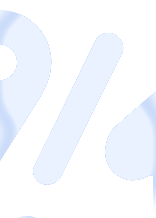
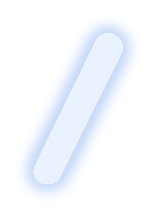
日付の「1」が欠けて見えるのを直す
- 「/」の切り出しに隣の字（組み見本の「9」と「1」）の欠片とグローが入っていた。
  箱ではなく「つながった形」で芯だけを抜き、グローは「:」と同じ作り方で足し直す。
  日にちの「1」に重なって字が欠けて見えていたのはこれが原因。
- 字画像にはグローが焼き込んであるので、重なりは明るいほうを残す
  （PorterDuff.Mode.LIGHTEN）。隣の字の暗いグローが手前の字を欠けさせなくなる。
  日付だけでなく、残り時間の数字（GlyphText）も同じにそろえた。
- 大きさを決める相手を「その月でいちばん大きくなる組み」にした。実際の日付で合わせると
  1 日のように横幅の狭い日だけ字が大きくなり、日ごとに大きさが変わっていた。
  そのぶん枠への収まりに余裕ができるので、対角は 90% → 94% に広げた。

Claude-Session: https://claude.ai/code/session_013hPWkZhM7mxt6LFDg5nXjw

diff --git a/wear/src/main/kotlin/com/kazuya/timtra/wear/complication/DateArt.kt b/wear/src/main/kotlin/com/kazuya/timtra/wear/complication/DateArt.kt
@@ -4,6 +4,8 @@ import android.content.Context
 import android.graphics.Bitmap
 import android.graphics.Canvas
 import android.graphics.Paint
+import android.graphics.PorterDuff
+import android.graphics.PorterDuffXfermode
 import android.graphics.RectF
 import com.kazuya.timtra.data.glyph.Glyph
 import com.kazuya.timtra.data.glyph.GlyphText
@@ -32,16 +34,20 @@ enum class DateStyle {
  *
  * 配置も見本どおり。左に月の数字と「/」、その下に曜日、右に大きな日にち。
  * 組み上がりは横長なので、丸い枠に収まるよう **対角の長さ** を枠の [FILL_DIAGONAL] に合わせる。
+ * ただし合わせる相手は「いちばん横長になる日付」（[WIDEST]）で、日によって字の大きさが変わらないようにする。
  */
 object DateArt {
     /** 既定の一辺（px）。コンプリケーションの枠に合わせて文字盤側が縮める。 */
     const val SIZE_PX = 384
 
     /** 組み上がりの対角を、枠の一辺に対してどこまで広げるか。丸い枠に内接する値。 */
-    private const val FILL_DIAGONAL = 0.90f
+    private const val FILL_DIAGONAL = 0.94f
 
     /** 右下が開いていて、「/」を食い込ませても潰れない数字。 */
     private const val OPEN_TAIL = "479"
+
+    /** 大きさを決める見本の日にち。2 桁のうち幅の広い組み。 */
+    private const val WIDEST_DAY = 28
 
     fun render(
         context: Context,
@@ -50,17 +56,51 @@ object DateArt {
         size: Int = SIZE_PX,
     ): Bitmap {
         val placed = layout(date, style)
-        val box = RectF(placed.first().ink)
-        placed.forEach { box.union(it.ink) }
+        val box = bounds(placed)
         val bitmap = Bitmap.createBitmap(size, size, Bitmap.Config.ARGB_8888)
         val canvas = Canvas(bitmap)
-        val scale = size * FILL_DIAGONAL / hypot(box.width(), box.height())
+        // 大きさは日にちや曜日で変わらないよう、その月でいちばん大きくなる組みで決める
+        val widest = widestBox(date.monthValue, style)
+        val scale = size * FILL_DIAGONAL / hypot(widest.width(), widest.height())
         canvas.translate(size / 2f, size / 2f)
         canvas.scale(scale, scale)
         canvas.translate(-box.centerX(), -box.centerY())
-        val paint = Paint(Paint.FILTER_BITMAP_FLAG)
+        // 字画像にはグローまで焼き込んであるので、重なりは明るいほうを残す（地は黒）
+        val paint =
+            Paint(Paint.FILTER_BITMAP_FLAG).apply {
+                xfermode = PorterDuffXfermode(PorterDuff.Mode.LIGHTEN)
+            }
         placed.forEach { draw(context, canvas, it, paint) }
         return bitmap
+    }
+
+    /** 組み上がり全体の囲み。 */
+    private fun bounds(placed: List<Placed>): RectF {
+        val box = RectF(placed.first().ink)
+        placed.forEach { box.union(it.ink) }
+        return box
+    }
+
+    /**
+     * その月でいちばん大きくなる組みの囲み。幅の広い 2 桁の日にちに、曜日は 7 つぜんぶを重ねて取る。
+     * これを基準に拡大率を決めるので、日にちや曜日が変わっても字の大きさは変わらず、枠からもはみ出さない。
+     */
+    private fun widestBox(
+        month: Int,
+        style: DateStyle,
+    ): RectF {
+        val weeks: List<Glyph?> =
+            when (style) {
+                DateStyle.WEEKDAY_JP -> Glyphs.weekdaysJp
+                DateStyle.WEEKDAY_EN -> Glyphs.weekdaysEn
+                DateStyle.PLAIN -> listOf(null)
+            }
+        val box = RectF()
+        weeks.forEachIndexed { index, week ->
+            val one = bounds(layout(month, WIDEST_DAY, week, style))
+            if (index == 0) box.set(one) else box.union(one)
+        }
+        return box
     }
 
     /**
@@ -70,11 +110,18 @@ object DateArt {
     private fun layout(
         date: LocalDate,
         style: DateStyle,
+    ): List<Placed> = layout(date.monthValue, date.dayOfMonth, weekday(date, style), style)
+
+    private fun layout(
+        month: Int,
+        dayOfMonth: Int,
+        week: Glyph?,
+        style: DateStyle,
     ): List<Placed> {
         val form = if (style == DateStyle.WEEKDAY_EN) Glyphs.en else Glyphs.jp
         val placed = mutableListOf<Placed>()
         // 日にち: 原点から右へ
-        val day = date.dayOfMonth.toString()
+        val day = dayOfMonth.toString()
         var x = 0f
         day.forEach { digit ->
             val glyph = Glyphs.digits[digit - '0']
@@ -92,9 +139,9 @@ object DateArt {
         placed += Placed(slash, RectF(slashLeft, form.slashBottom - form.slashHeight, slashRight, form.slashBottom))
         // 月: 「/」の左へ右詰め（2 桁なら左へ伸びる）。
         // 食い込みは見本の「9」に合わせた値。下が開いている数字だけに使い、ほかは付けるだけにする
-        val month = date.monthValue.toString()
-        var right = slashLeft - if (month.last() in OPEN_TAIL) form.monthSlashGap else 0f
-        month.reversed().forEach { digit ->
+        val monthText = month.toString()
+        var right = slashLeft - if (monthText.last() in OPEN_TAIL) form.monthSlashGap else 0f
+        monthText.reversed().forEach { digit ->
             val glyph = Glyphs.digits[digit - '0']
             val width = glyph.iw / Glyphs.CAP_DIGIT * form.monthCap
             val bottom = form.monthBaseline + glyph.drop * form.monthCap
@@ -102,7 +149,7 @@ object DateArt {
             right -= width + form.dayTrack * form.monthCap
         }
         // 曜日: 日にちの字に被らないよう右端でそろえる
-        weekday(date, style)?.let { glyph ->
+        week?.let { glyph ->
             val cap = if (style == DateStyle.WEEKDAY_EN) Glyphs.CAP_WEEK_EN else Glyphs.CAP_WEEK_JP
             val weekRight = slashRight + form.weekRight - form.slashRight
             val bottom = form.weekBaseline + glyph.drop * form.weekCap

diff --git a/data/src/main/kotlin/com/kazuya/timtra/data/glyph/GlyphText.kt b/data/src/main/kotlin/com/kazuya/timtra/data/glyph/GlyphText.kt
@@ -5,6 +5,8 @@ import android.graphics.Bitmap
 import android.graphics.BitmapFactory
 import android.graphics.Canvas
 import android.graphics.Paint
+import android.graphics.PorterDuff
+import android.graphics.PorterDuffXfermode
 import android.graphics.RectF
 
 /**
@@ -24,7 +26,14 @@ object GlyphText {
     /** 字と字のあいだ（cap に対する割合）。見本の実測。 */
     const val TRACK = 0.07f
 
-    private val paint = Paint(Paint.FILTER_BITMAP_FLAG)
+    /**
+     * 字を重ねるときは **明るいほうを残す**。字画像には周りのグローまで焼き込んであるので、
+     * そのまま上書きすると隣の字の暗いグローが手前の字を欠けさせてしまう（地が黒のときだけ使える手）。
+     */
+    private val paint =
+        Paint(Paint.FILTER_BITMAP_FLAG).apply {
+            xfermode = PorterDuffXfermode(PorterDuff.Mode.LIGHTEN)
+        }
     private val cache = HashMap<String, Bitmap>()
 
     fun glyphOf(char: Char): Glyph? =

diff --git a/tools/date_glyphs.py b/tools/date_glyphs.py
@@ -11,6 +11,7 @@
   data/.../data/glyph/Glyphs.kt                        寸法表と配置の比率
 
 「:」は見本に無いので、数字の大きさに合わせてここで作る。
+「/」は組み見本から芯だけを抜き、グローは作り直す（隣の字と近く、そのままでは混ざるため）。
 依存: pillow, numpy, scipy。デザインを変えたときだけ実行する。
 
   python3 tools/date_glyphs.py
@@ -92,13 +93,27 @@ def cut(lum, box, margin, name, limits=None, keep=None):
     return write(t, box, (mx0, my0), name)
 
 
-def soft_mask(lum, box, margin):
-    """[box] の中の字だけを残すぼかしマスク。隣の字のグローを持ち込まないために使う。"""
+def part_of(lum, box):
+    """[box] の中でいちばん大きい「つながった形」。隣の字と箱が重なっていても取り違えない。"""
     x0, x1, y0, y1 = box
-    core = np.zeros(lum.shape, dtype=np.float32)
-    core[y0:y1, x0:x1] = (lum[y0:y1, x0:x1] > INK).astype(np.float32)
-    grown = ndimage.gaussian_filter(ndimage.binary_dilation(core > 0, iterations=margin).astype(np.float32), margin / 3.0)
-    return np.clip(grown * 1.6, 0.0, 1.0)
+    labels, _ = ndimage.label(lum > INK)
+    inside = labels[y0:y1, x0:x1]
+    return labels == int(np.bincount(inside[inside > 0].ravel()).argmax())
+
+
+def make_slash(lum, box, margin):
+    """「/」を組み見本から起こす。芯だけをつながった形で抜き、グローは「:」と同じ作り方で足す。
+
+    組み見本の「9/1」は互いに近く、切り出すと隣の字の欠片とグローまで入ってしまう
+    （実際、日にちの「1」に被って字が欠けて見えた）。芯以外は捨てて作り直す。
+    """
+    x0, x1, y0, y1 = box
+    keep = ndimage.binary_dilation(part_of(lum, box), iterations=2)   # 縁のなめらかさは残す
+    soft = np.clip((lum - FLOOR) / (SOLID - FLOOR), 0.0, 1.0) * keep
+    core = soft[y0 - margin:y1 + margin, x0 - margin:x1 + margin]
+    glow = ndimage.gaussian_filter(core, (y1 - y0) * 0.055)
+    t = np.clip(np.maximum(core, glow * 1.2), 0.0, 1.0)
+    return write(t, (margin, margin + (x1 - x0), margin, margin + (y1 - y0)), (0, 0), "slash")
 
 
 def make_colon(cap):
@@ -183,7 +198,7 @@ def main():
         bweek = union(bottom)
         if cut_slash:
             margin = round((bslash[3] - bslash[2]) * MARGIN)
-            glyphs["slash"] = cut(ref, bslash, margin, "slash", keep=soft_mask(ref, bslash, margin))
+            glyphs["slash"] = make_slash(ref, bslash, margin)
         month_cap = (b9[3] - b9[2]) / (glyphs["d9"]["ih"] / caps["d"])
         week_cap = (bweek[3] - bweek[2]) / (glyphs[week_names[4]]["ih"] / caps[week_kind])
         return dict(

diff --git a/docs/wear.md b/docs/wear.md
@@ -156,12 +156,24 @@ RANGED_VALUE の値はホームのリングと同じ `BoardSnapshot.gauge`（`Co
 
 切り出しでは、明るさをそのままアルファにしたうえで、色を芯（`#EAF2FF`）とグロー（`#4682EB`）の
 2 色から作り直している（見本の圧縮ノイズを持ち込まないため）。隣の字が余白に入り込まないよう、
-切り出す範囲は隣との中間で挟む。「/」は字見本に無いので組み見本から、形のマスクを掛けて抜いている。
+切り出す範囲は隣との中間で挟む。
+
+「/」は字見本に無いので組み見本から起こす。ただし組み見本の「9/1」は互いに近く、箱で切ると
+隣の字の欠片とグローまで入ってしまう（実際、日にちの「1」に重なって字が欠けて見えていた）。
+そこで **つながった形** で芯だけを抜き、グローは「:」と同じ作り方で足し直す（`make_slash`）。
+
+重ね方も直してある。字画像にはグローが焼き込んであるので、そのまま上書きすると隣の字の
+**暗いグローが手前の字を欠けさせる**。数字も日付も、重なりは明るいほうを残す
+（`PorterDuff.Mode.LIGHTEN`。地が黒のときだけ使える手）。
 
 並べ方は `DateArt.layout`。長さの単位は日にちの字の高さ、原点は日にちの字の左下で、
 `DateGlyphs` の比率（字間・月の数字の大きさとベースライン・「/」の位置・曜日の大きさと右端）は
-すべて組み見本の実測から出している。最後に組み上がり全体の **対角** を枠の 90% に合わせて拡大するので、
+すべて組み見本の実測から出している。最後に組み上がりの **対角** を枠の 94% に合わせて拡大するので、
 丸い枠でも切れずに目いっぱいの大きさになる。
+
+合わせる相手は実際の日付ではなく、**その月でいちばん大きくなる組み**（幅の広い 2 桁の日にち 28 と、
+曜日 7 つぶんを重ねた囲み）。実際の日付で合わせると、1 日のように横幅の狭い日だけ字が大きくなって
+日ごとに大きさが変わってしまうため。
 
 見本は「9/15」なので、細い「1」に「/」を少しだけ重ねてある。3 や 8 のような丸い数字に重ねると
 潰れるため、日にちの先頭が 1 のときだけ重ね、ほかは少し離す。月と「/」の食い込みも同じ考えで、
